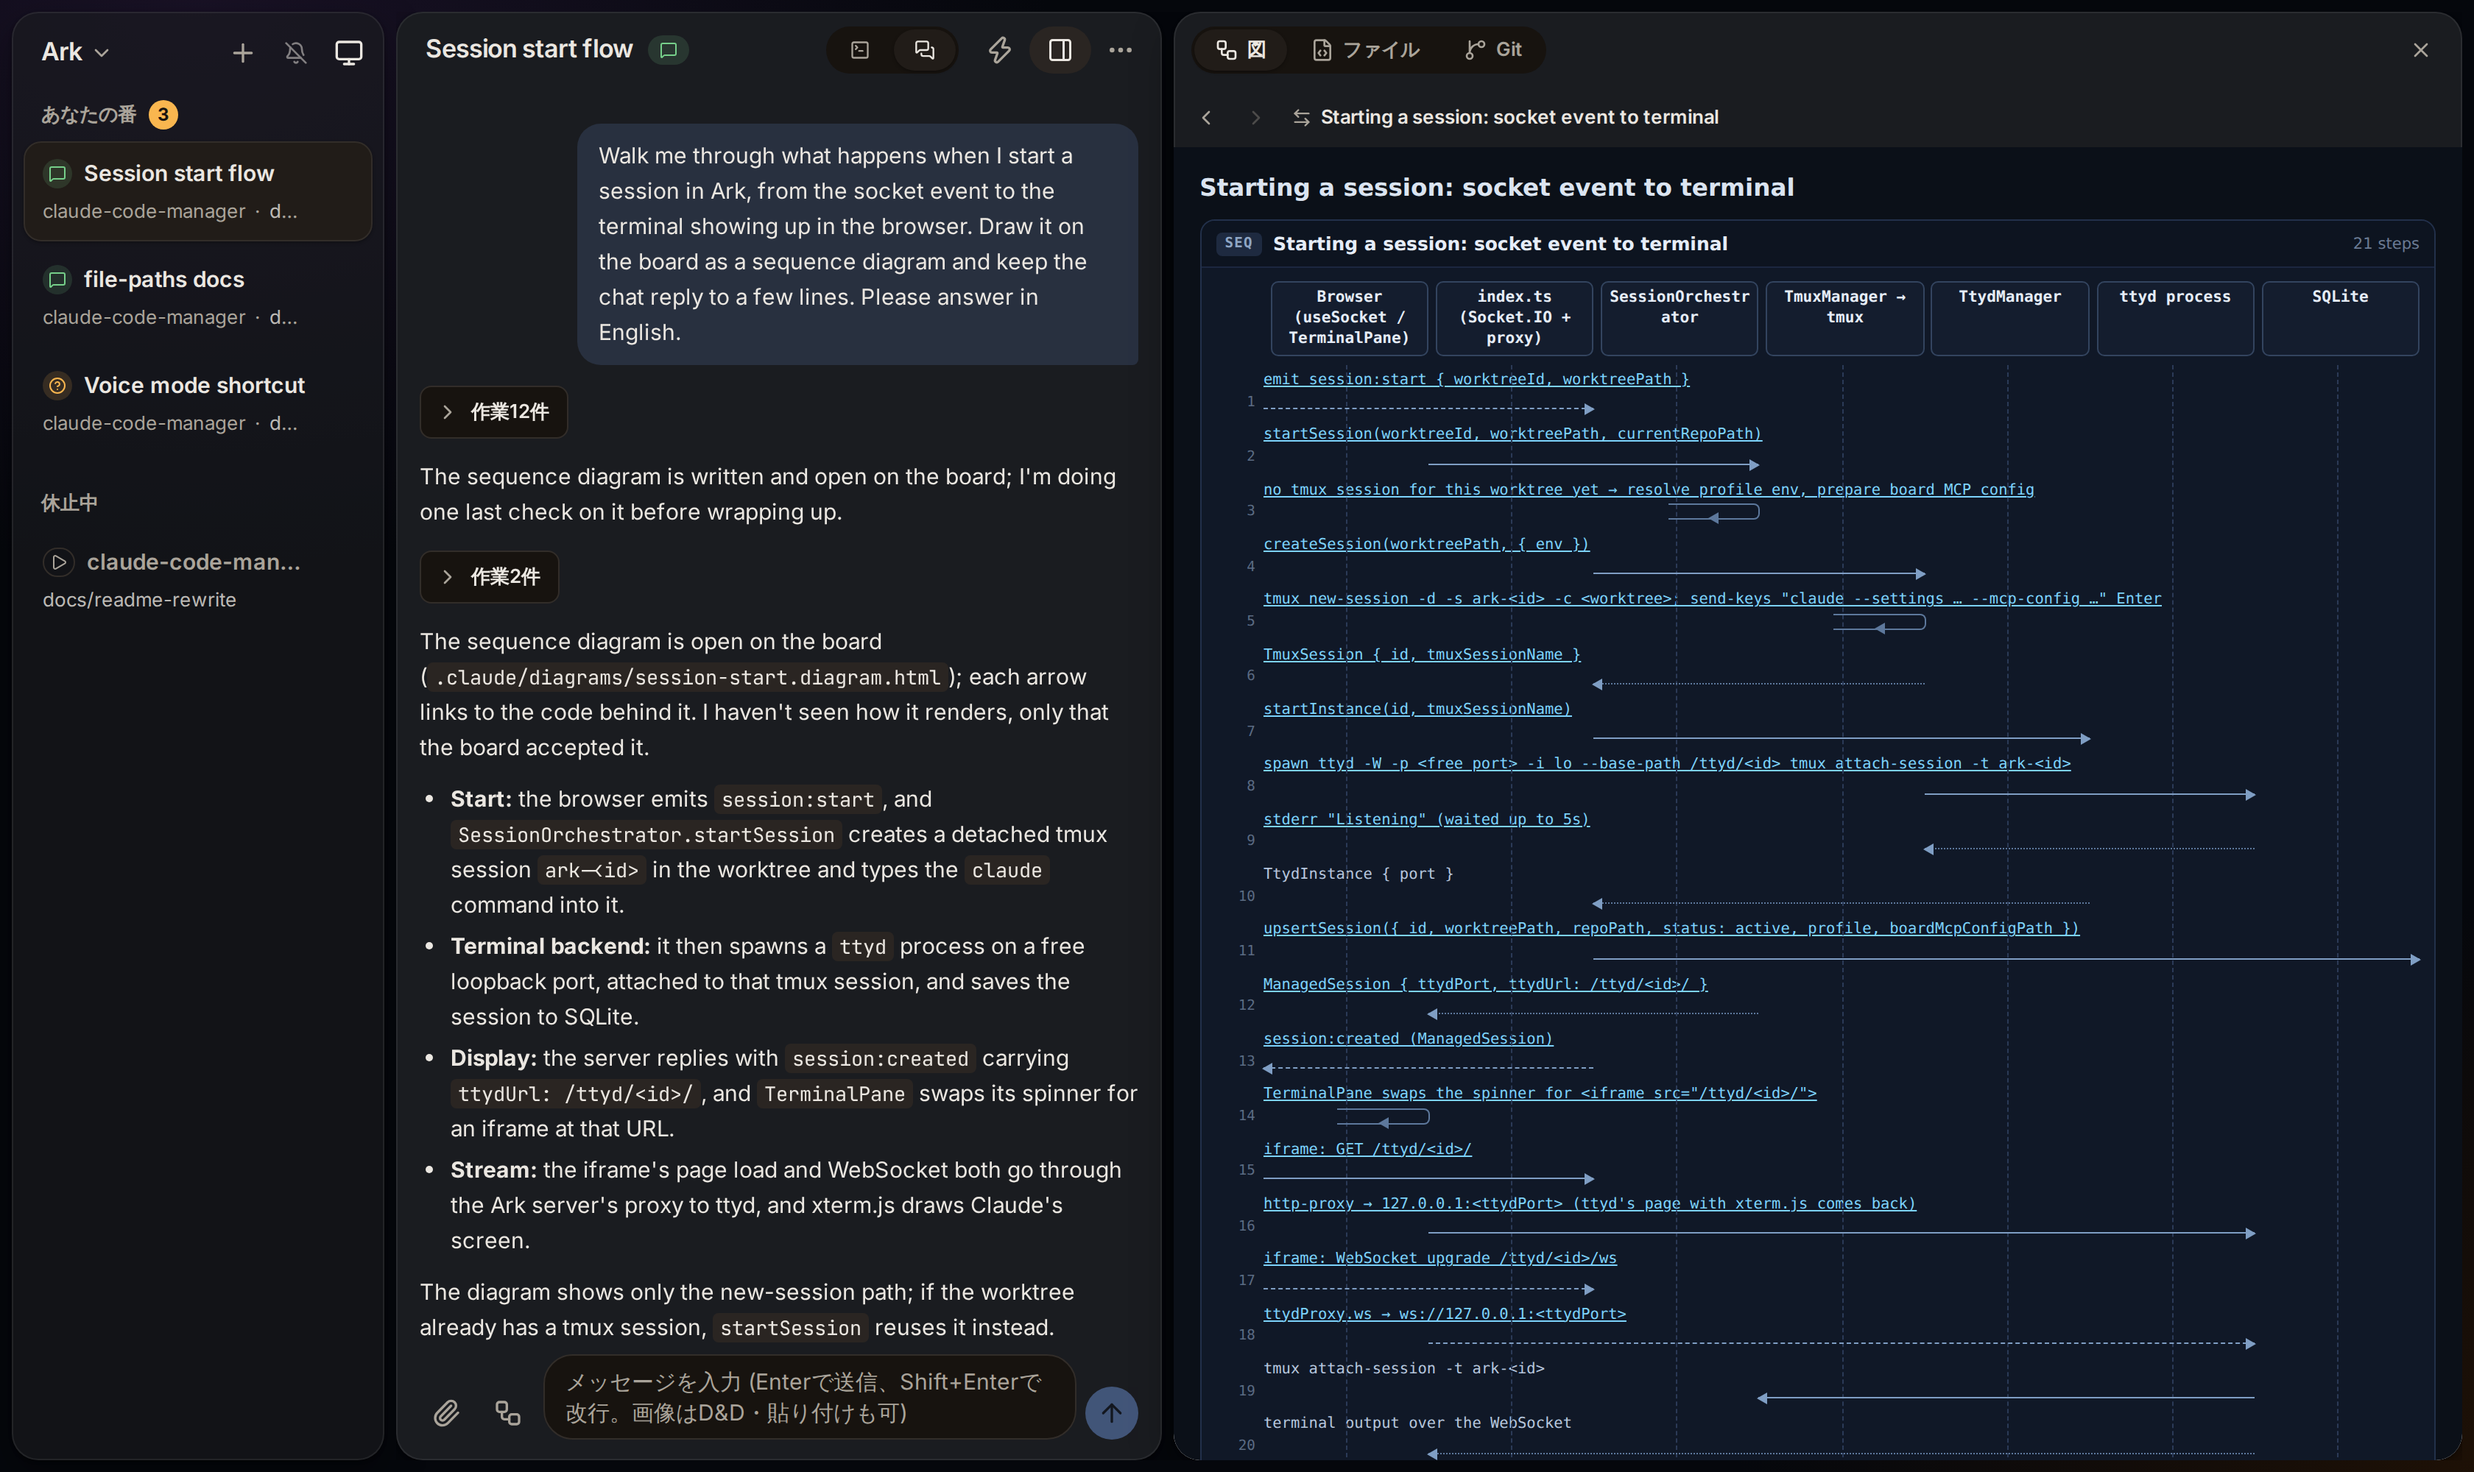
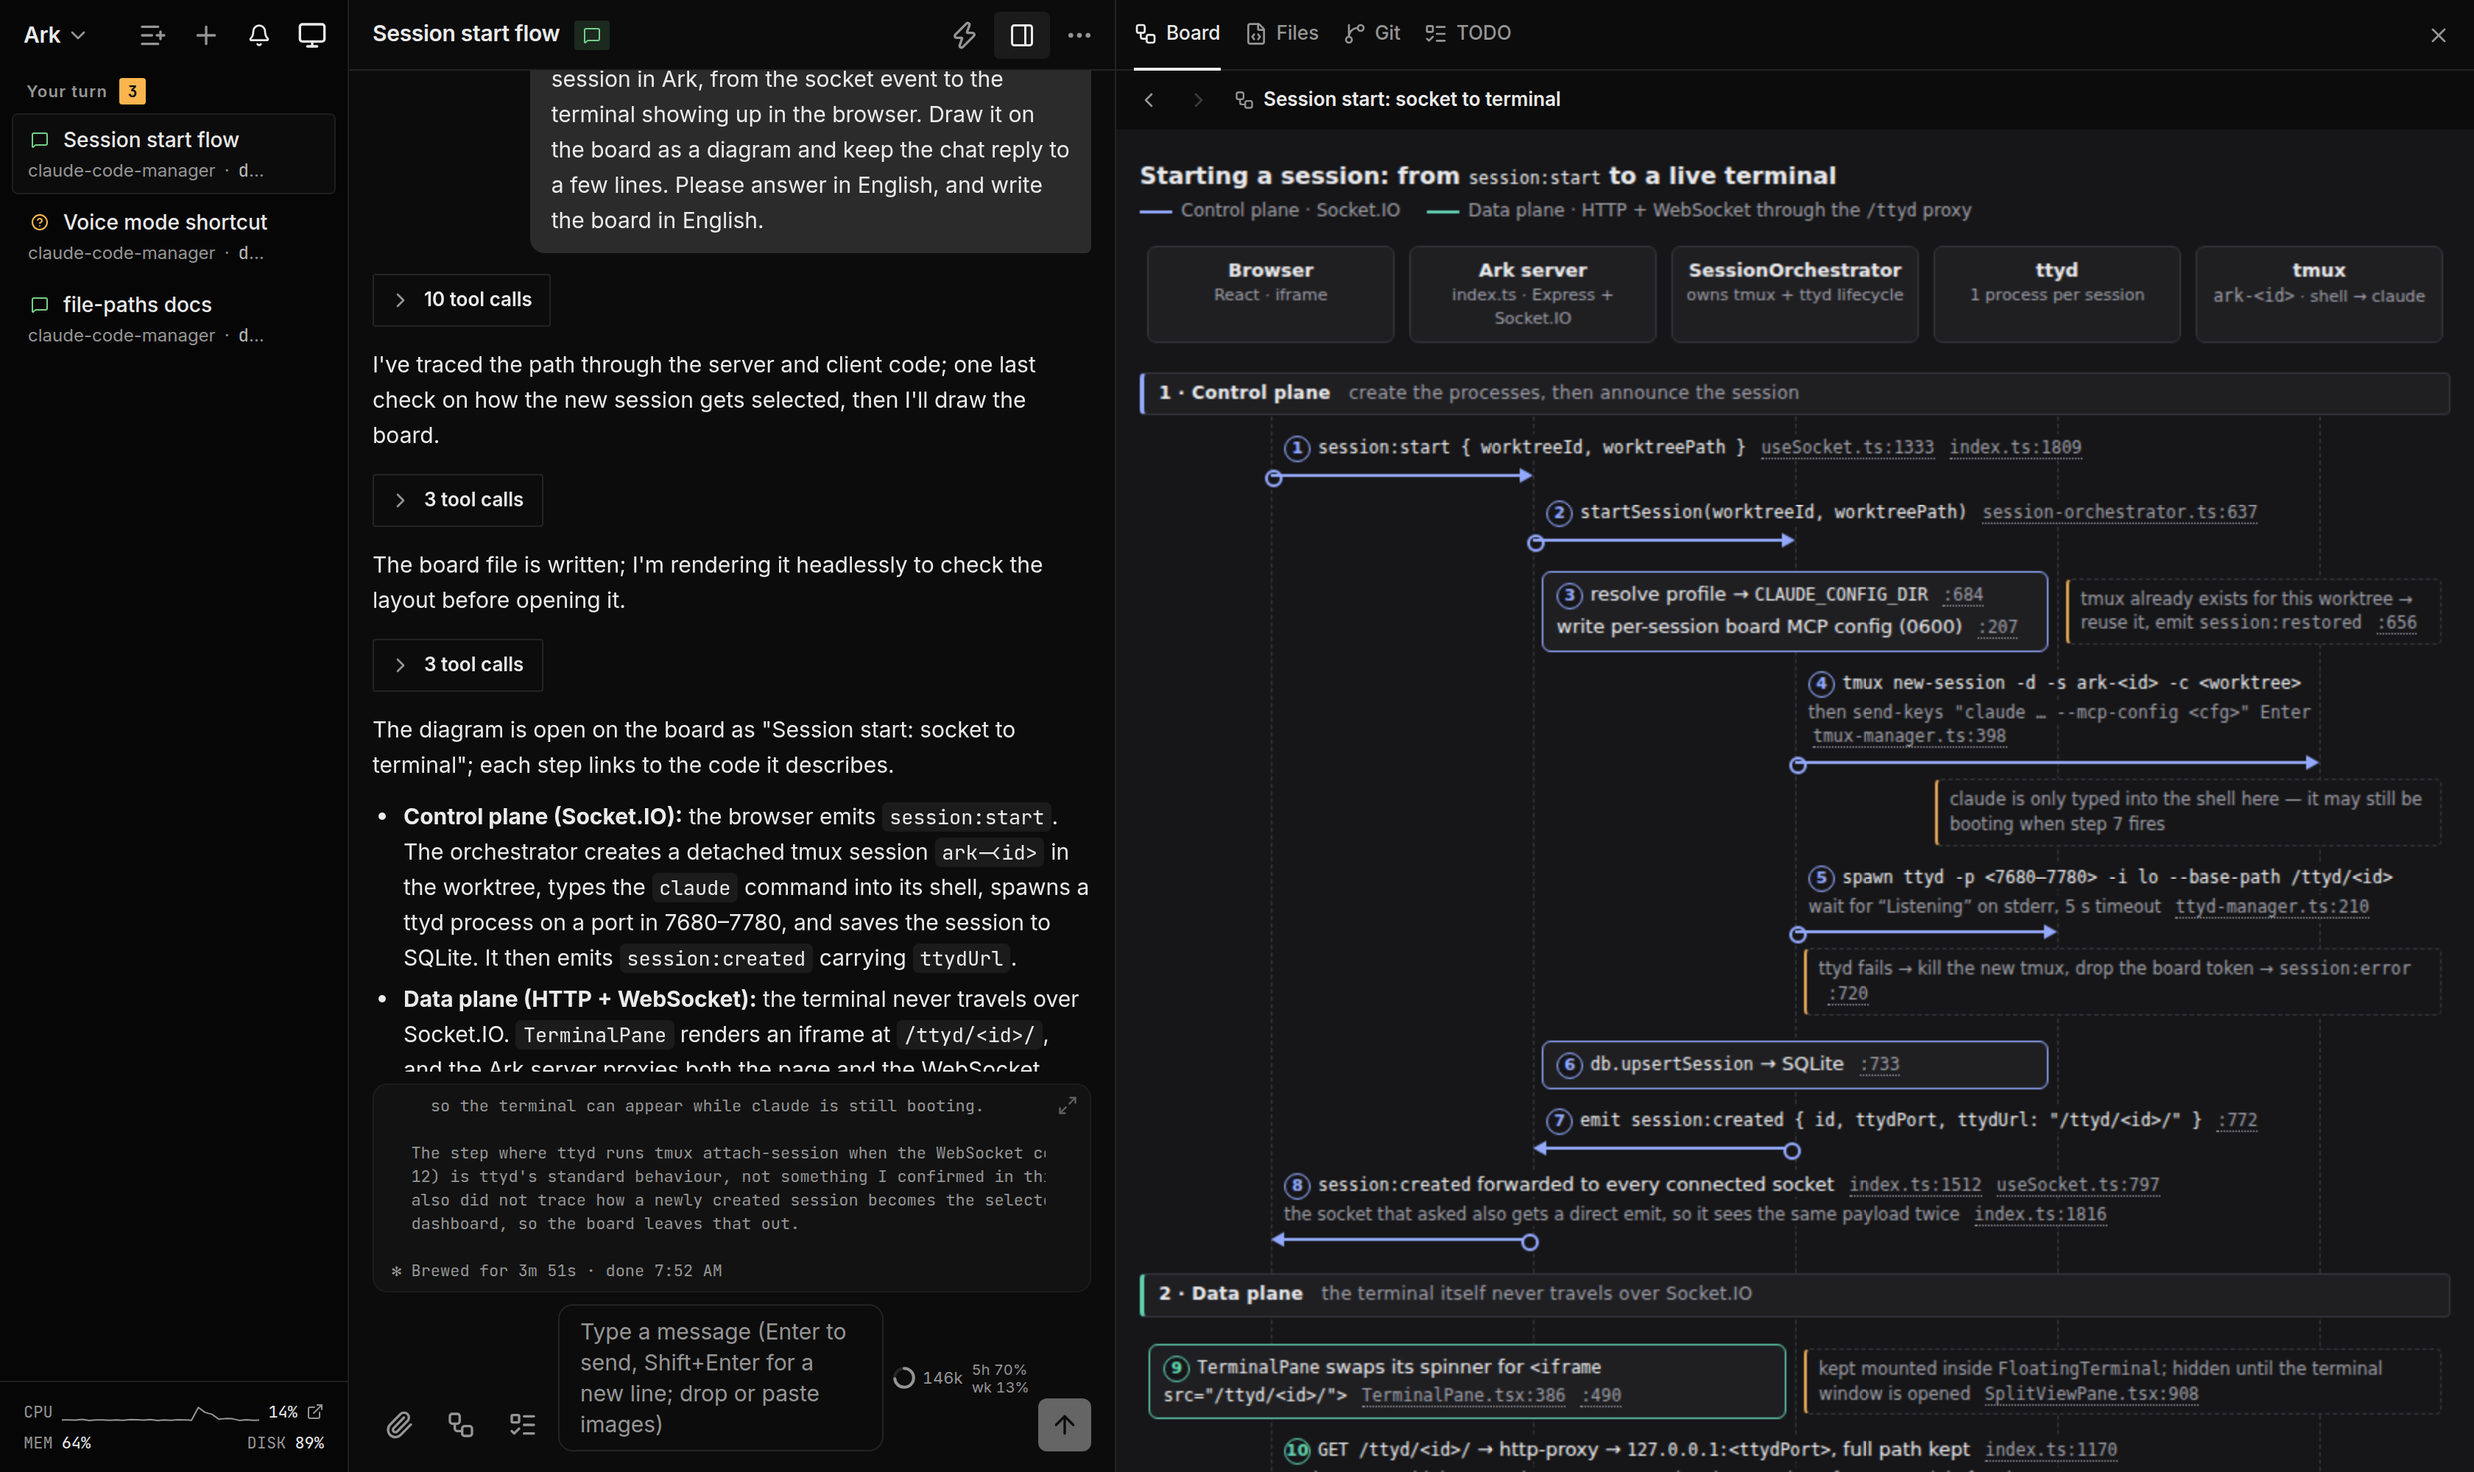
READMEに言語の切り替えを書き、スクリーンショットを言語別に撮り直す (#588)
README.mdには英語の画面、README.ja.mdには日本語の画面を載せる。「UIは日本語」の制限を消し、ブラウザの言語に合わせることと、Arkメニューから切り替えられることを書いた。

diff --git a/README.md b/README.md
@@ -16,7 +16,7 @@ It drives the real interactive `claude` CLI inside tmux, so your plan, your sett
   <img
     src=".github/assets/ark-board.png"
     width="880"
-    alt="Ark on a desktop: a session list on the left, a conversation in the middle, and a sequence diagram Claude drew on the board on the right"
+    alt="Ark on a desktop: a session list on the left, a conversation in the middle, and a diagram Claude drew on the board on the right"
   />
 </p>
 
@@ -43,7 +43,7 @@ You need to be logged in to Claude Code. If Claude Code has never run on the mac
 
 ### You can tell where every session stands without opening it
 
-The sidebar sorts sessions into "your turn", "working" and "idle". When Claude asks a question, Ark opens the terminal so you can answer Claude Code's own prompt there.
+The sidebar sorts sessions into "Your turn", "Working" and "Inactive". When Claude asks a question, Ark opens the terminal so you can answer Claude Code's own prompt there.
 
 If a session's branch has a GitHub pull request, its row shows the PR number and the check result (✓ / ✕ / pending, merged, closed); clicking it opens the PR. When checks fail, Ark sends a notification. Ark reads this with the [GitHub CLI](https://cli.github.com/) (`gh`) once a minute.
 
@@ -74,7 +74,7 @@ Claude draws diagrams, screen mockups, and clickable prototypes as free-form HTM
   <img
     src=".github/assets/ark-mobile-sessions.png"
     width="260"
-    alt="The session list on a phone, grouped into your turn and idle"
+    alt="The session list on a phone, with three sessions waiting for you"
   />
 </p>
 
@@ -85,6 +85,7 @@ The mobile UI has its own session list, chat view, terminal with quick keys, and
 - Paste, drop or attach images, PDFs, text files and spreadsheets to send them to Claude.
 - Open the VNC screen of a host you can reach over SSH, such as a Mac's Screen Sharing, in the browser. Ark connects with `ssh -o BatchMode=yes` as the user running the server, so that user needs a key without a passphrase (or one loaded in ssh-agent) and the host already in `known_hosts`.
 - Use a different Claude account per repository (Linux only).
+- Use Ark in English or Japanese. It follows your browser's language, and you can switch it from the Ark menu at the top of the session list. The macOS app's own dialogs follow the system language.
 - Keep topics set aside mid-conversation in the TODO tab. Press the TODO button to the left of the chat input and Claude writes the topics it set aside down as TODOs. Only you can complete or delete one. See [Branch TODOs](#branch-todos).
 - Start a session in a new worktree from just a name and a prompt: without a parent from the list header, or as a child task split off a session row. See [New tasks](#new-tasks).
 
@@ -215,7 +216,6 @@ The first message is sent only after Ark sees claude running and waiting for inp
 - **The Git tab and file editing are desktop only.** On a phone, files open read-only.
 - **Per-repository accounts work on Linux only**, because macOS keeps Claude's credentials in the Keychain.
 - **Voice mode is for iPhone** and runs only while the screen is on and Ark is in the foreground.
-- **The UI is in Japanese.**
 
 ## Development
 
